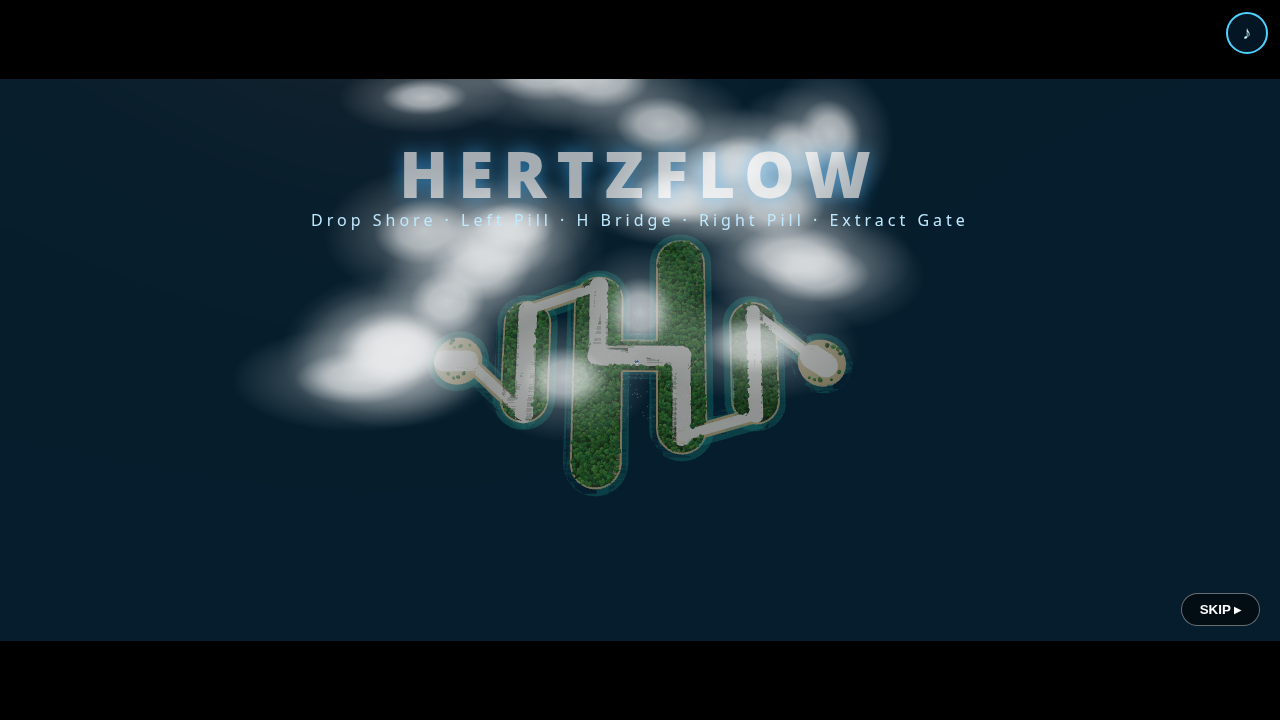
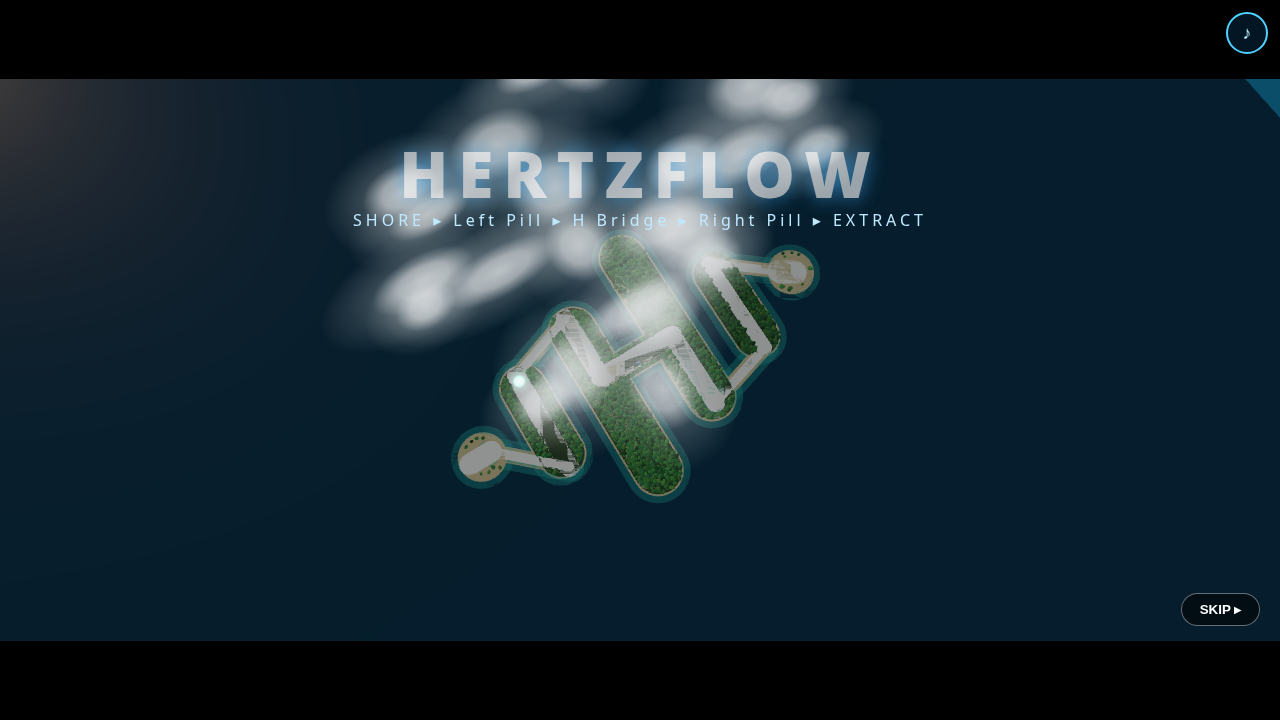
Intro 10s overview timeline (hold/orbit/dive), drifting clouds, breadcrumb; realistic boat + deeper water; Bone King class cards with starter lines

Changed region(s): [[0.1875, 0.0917, 0.75, 0.7028], [0.0, 0.0917, 0.0938, 0.3056], [0.9688, 0.0917, 1.0, 0.1528]]

diff --git a/public/game.js b/public/game.js
@@ -24,7 +24,7 @@ const sky = new THREE.Group(); scene.add(sky);
 { const s = new THREE.Mesh(new THREE.CircleGeometry(40, 32), new THREE.MeshBasicMaterial({ color: 0xffb347, fog: false })); s.position.set(-300, 70, -900); s.lookAt(0, 0, 0); scene.add(s); }
 // ocean
 const oceanG = new THREE.PlaneGeometry(700, 700, 120, 120); oceanG.rotateX(-Math.PI / 2);
-const ocean = new THREE.Mesh(oceanG, new THREE.MeshStandardMaterial({ color: 0x0f8fb8, roughness: .12, metalness: .35, flatShading: true, transparent: true, opacity: .95, emissive: 0x03263a }));
+const ocean = new THREE.Mesh(oceanG, new THREE.MeshStandardMaterial({ color: 0x0a6a80, roughness: .18, metalness: .45, flatShading: true, transparent: true, opacity: .96, emissive: 0x021a26 }));
 ocean.position.y = -0.4; scene.add(ocean);
 const oBase = Float32Array.from(oceanG.attributes.position.array);
 // island (Ember Dot) + background HertzFlow-mark islets
@@ -265,23 +265,24 @@ function setChar(id) { CHID = id; CH = CHARS[id]; for (const c of [...zayn.child
   CD.wave = CH.wave.cd; document.querySelectorAll('.nm').forEach(n => n.textContent = CH.name); }
 // speedboat
 const boat = new THREE.Group();
-{ const plan = new THREE.Shape(); plan.moveTo(-1.8, -4.5); plan.lineTo(1.8, -4.5); plan.lineTo(1.9, 1.5); plan.quadraticCurveTo(1.6, 5, 0, 7.2); plan.quadraticCurveTo(-1.6, 5, -1.9, 1.5); plan.closePath();
+{ const plan = new THREE.Shape(); plan.moveTo(-1.8, -6); plan.lineTo(1.8, -6); plan.lineTo(1.95, 2); plan.quadraticCurveTo(1.6, 7, 0, 9.6); plan.quadraticCurveTo(-1.6, 7, -1.95, 2); plan.closePath();
   const hullG = new THREE.ExtrudeGeometry(plan, { depth: 1.3, bevelEnabled: true, bevelThickness: .35, bevelSize: .3, bevelSegments: 2, curveSegments: 10 }); hullG.rotateX(-Math.PI / 2); hullG.translate(0, -.5, 0);
   const hull = new THREE.Mesh(hullG, M(0xf4f6f8, 0, { roughness: .35, metalness: .2 }));
   const keel = new THREE.Mesh(hullG, M(0x0c1a2a, 0, { roughness: .4 })); keel.scale.set(.96, .45, .97); keel.position.y = -.55;
   const stripe = new THREE.Mesh(hullG, M(SKY, .8)); stripe.scale.set(1.02, .12, 1.01); stripe.position.y = .25;
-  const deck = new THREE.Mesh(new THREE.BoxGeometry(3, .12, 6), M(0x2a2f38, 0, { roughness: .8 })); deck.position.set(0, .86, -1);
-  const glass = new THREE.Mesh(new THREE.BoxGeometry(3.1, 1.1, .12), M(0x9fe8ff, .25, { transparent: true, opacity: .55, metalness: .6, roughness: .05 })); glass.position.set(0, 1.4, 2.2); glass.rotation.x = -.55;
-  const motor = new THREE.Mesh(new THREE.BoxGeometry(.9, 1.6, .9), M(0x14161c, 0, { metalness: .6, roughness: .3 })); motor.position.set(0, .9, -4.9);
-  const cowl = new THREE.Mesh(new THREE.BoxGeometry(.95, .25, .95), M(SKY, 1)); cowl.position.set(0, 1.75, -4.9);
+  const deck = new THREE.Mesh(new THREE.BoxGeometry(3, .12, 8.5), M(0x2a2f38, 0, { roughness: .8 })); deck.position.set(0, .86, -1.5);
+  const glass = new THREE.Mesh(new THREE.BoxGeometry(3.1, 1.1, .12), M(0x9fe8ff, .25, { transparent: true, opacity: .55, metalness: .6, roughness: .05 })); glass.position.set(0, 1.45, 2.6); glass.rotation.x = -1.0; const frame = new THREE.Mesh(new THREE.BoxGeometry(3.2, .1, .1), M(0x14161c, 0)); frame.position.set(0, 1.85, 2.3); boat.add(frame);
+  const motor = new THREE.Mesh(new THREE.BoxGeometry(.35, 1.9, .5), M(0x14161c, 0, { metalness: .6, roughness: .3 })); motor.position.set(0, .2, -6.6);
+  const cowl = new THREE.Mesh(new THREE.CapsuleGeometry(.6, .7, 4, 10), M(0x1a1d24, 0, { metalness: .5, roughness: .25 })); cowl.rotation.x = Math.PI / 2; cowl.scale.set(1, 1, .85); cowl.position.set(0, 1.55, -6.6); const cap = new THREE.Mesh(new THREE.BoxGeometry(1, .08, .9), M(SKY, 1)); cap.position.set(0, 2.05, -6.6); boat.add(cap);
   boat.add(keel, hull, stripe, deck, glass, motor, cowl);
   // wake: two foam ribbons + a center churn (shared additive sprite, no particles flood)
-  const foam = (x, rot) => { const w = sprite(STREAK, 0xcfeff5, 1.3, 30, .35); w.material.blending = THREE.NormalBlending; w.position.set(x, -.3, -19); w.rotation.y = Math.PI + rot; boat.add(w); return w; };
-  boat.userData.wake = [foam(-2.5, -.12), foam(2.5, .12), (() => { const c = sprite(ORB, 0xffffff, 5, 12, .8); c.position.set(0, -.2, -8); boat.add(c); return c; })()];
+  const foam = (x, rot) => { const w = sprite(STREAK, 0xcfeff5, 1.3, 30, .35); w.material.blending = THREE.NormalBlending; w.position.set(x, -.3, -24); w.rotation.y = Math.PI + rot; boat.add(w); return w; };
+  const blob = (x, z, sx, sz) => { const c = sprite(ORB, 0xf2fbff, sx, sz, .8); c.material.blending = THREE.NormalBlending; c.position.set(x, -.2, z); boat.add(c); return c; };
+  boat.userData.wake = [foam(-2.5, -.12), foam(2.5, .12), foam(-1.2, -.05), foam(1.2, .05), blob(0, -10, 5, 12), blob(-2.1, 3, 1.6, 7), blob(2.1, 3, 1.6, 7), blob(0, 9.4, 2.4, 1.6)]; // + hull-side & bow foam
   scene.add(boat); boat.visible = false; }
 // clouds for the overview descent (flat soft sprites, one shared texture)
-const cover = []; const clouds = new THREE.Group(); scene.add(clouds); clouds.visible = false;
-for (let i = 0; i < 26; i++) { const c = sprite(ORB, 0xffffff, 90 + Math.random() * 90, 60 + Math.random() * 60, .8); c.material.blending = THREE.NormalBlending; c.position.set((Math.random() - .5) * 360, 150 + Math.random() * 60, -80 + (Math.random() - .5) * 280); clouds.add(c); }
+const cover = []; const crumb = sprite(ORB, 0x9fffe0, 26, 26, 1); crumb.visible = false; const clouds = new THREE.Group(); scene.add(clouds); clouds.visible = false;
+for (let i = 0; i < 26; i++) { const c = sprite(ORB, 0xffffff, 90 + Math.random() * 90, 60 + Math.random() * 60, .8); c.material.blending = THREE.NormalBlending; c.position.set((Math.random() - .5) * 360, 150 + Math.random() * 60, -80 + (Math.random() - .5) * 280); c.userData.v = 3 + Math.random() * 5; c.userData.s = c.scale.clone(); c.userData.ph = Math.random() * 6; clouds.add(c); }
 for (let i = 0; i < 9; i++) { const c = sprite(ORB, 0xf4f8ff, 260, 200, .95); c.material.blending = THREE.NormalBlending; c.position.set((i % 3 - 1) * 110, 172 + i * 4, 60 + ((i / 3) | 0) * 60 - 60); clouds.add(c); cover.push(c); } // cover layer the camera dives into
 const deepSea = new THREE.Mesh(new THREE.PlaneGeometry(6000, 6000).rotateX(-Math.PI / 2), new THREE.MeshBasicMaterial({ color: 0x0b5f80 })); deepSea.position.y = -1.2; clouds.add(deepSea);
 
@@ -513,13 +514,13 @@ function setArena(on) { const zc = MODELS.zayn && MODELS.zayn.userData.combat; i
 function clearField() { enemies.forEach(e => e.mesh && scene.remove(e.mesh)); enemies.length = 0; gems.length = 0; nums.length = 0; decals.forEach(d => scene.remove(d.m)); decals.length = 0; }
 function startCine() {
   $('#title').classList.remove('on'); show('#title', false); show('#cine', true); show('#hud', false); show('#end', false);
-  S.mode = 'over'; S.t = 0; boat.visible = false; setArena(false); clearField(); shield.visible = false; clouds.visible = true; scene.fog.far = 2000;
+  S.mode = 'over'; S.t = 0; boat.visible = false; setArena(false); clearField(); shield.visible = false; clouds.visible = true; scene.fog.far = 2000; cover.forEach(c => c.material.opacity = 0); scene.add(crumb);
   // overview flies the selected map's logo silhouette (green canopy), not the old archipelago
   buildMap(MAPID); arena.visible = true; decor.forEach(o => o.visible = false); ocean.visible = false; scene.background = new THREE.Color(MAP.fog);
   { const bb = new THREE.Box3(); mapG.children.forEach(c => { if (c.geometry && c.geometry.type !== 'PlaneGeometry') bb.expandByObject(c); }); const c = bb.getCenter(new THREE.Vector3()), sz = bb.getSize(new THREE.Vector3()); S.ovC = [c.x, c.z]; S.ovR = Math.max(sz.x, sz.z); }
-  $('#cineText').textContent = MAPID === 'binance' ? 'BINANCE SIEGE' : 'HERTZFLOW'; $('#cineSub').textContent = MAPID === 'binance' ? 'Storm over the diamond · land at A, break the core' : 'Drop Shore · Left Pill · H Bridge · Right Pill · Extract Gate';
+  $('#cineText').textContent = MAPID === 'binance' ? 'BINANCE SIEGE' : 'HERTZFLOW'; $('#cineSub').textContent = MAPID === 'binance' ? 'SHORE ▸ West Channel ▸ East Fort ▸ Outer L ▸ CORE' : 'SHORE ▸ Left Pill ▸ H Bridge ▸ Right Pill ▸ EXTRACT';
 }
-function startBoat() { S.mode = 'cine'; S.t = 0; clouds.visible = false; setArena(false); scene.fog.far = 320; $('#cineText').textContent = 'ALMOST THERE';
+function startBoat() { crumb.visible = false; S.mode = 'cine'; S.t = 0; clouds.visible = false; setArena(false); scene.fog.far = 320; $('#cineText').textContent = 'ALMOST THERE';
   boat.visible = true; boat.position.set(0, 0, 230); boat.rotation.y = Math.PI; boat.add(zayn); zayn.position.set(0, .9, -1); zayn.rotation.set(0, 0, 0); zayn.scale.set(1, 1, 1); }
 function landOnBeach() {
   if (S.mode !== 'cine') return; S.mode = 'fading'; fade(1);
@@ -645,8 +646,14 @@ const ALL = new URLSearchParams(location.search).has('all');
 const merits = () => +localStorage.getItem('sw_merits') || 0, owned = () => new Set([...STARTERS, ...JSON.parse(localStorage.getItem('sw_owned') || '[]')]);
 const isOwned = id => ALL || owned().has(id);
 function addMerits(n) { localStorage.setItem('sw_merits', merits() + n); }
+const CLASS = { lyra: ['Scout', 'FAST FEET, GREEN BOLTS, ONE MOON RAIN.'], hertzling: ['Spirit', 'PULLS THE PACK, THEN BREAKS THE ECHO.'], chado: ['Blade', 'TWO BLADES, ONE DASH — THEY NEVER SEE IT.'],
+  kael: ['Guard', 'Line placeholder.'], warden: ['Warden', 'Line placeholder.'], bankyo: ['Vault', 'Line placeholder.'], zayn: ['Sniper', 'Line placeholder.'], hero: ['Founder', 'Line placeholder.'] };
+const SIL = col => `<svg viewBox="0 0 40 48" class="sil"><circle cx="20" cy="11" r="7" fill="${col}"/><path d="M8 46 L11 24 Q20 17 29 24 L32 46 Z" fill="${col}"/><path d="M29 26 L38 18" stroke="${col}" stroke-width="3"/></svg>`;
+const KIT = c => `<div class="kicons">${[['◆', c.wave.col, 'Wave'], ['◎', c.chain.col, c.chain.name], ['✦', c.roar.col, c.roar.name]].map(([g, col, t]) => `<span title="${t}" style="--k:#${new THREE.Color(col).getHexString()}">${g}</span>`).join('')}</div>`;
+function boneCard(id, c, own) { const [role, line] = CLASS[id] || ['Hero', 'Line placeholder.'];
+  return `<div class="card bk ${own ? 'pick' : 'locked'}" data-c="${id}" style="--cc:${c.col}"><div class="plate"><div class="port">${SIL(own ? c.col : '#3a3a40')}${own ? '' : '<em>🔒</em>'}</div><span class="role">${role}</span></div><h3>${c.name}</h3><p class="line">${own ? line : '—'}</p>${KIT(c)}${own ? '<b>SELECT</b>' : `<button class="unlock" data-c="${id}" ${merits() < UNLOCK_COST[id] ? 'disabled' : ''}>UNLOCK · ${UNLOCK_COST[id]} ◆</button>`}</div>`; }
 function renderCards() {
-$('.cards').innerHTML = Object.entries(CHARS).sort(([a], [b]) => isOwned(b) - isOwned(a)).map(([id, c]) => isOwned(id) ? `<div class="card pick" data-c="${id}" style="--cc:${c.col}"><div class="port" style="background:radial-gradient(circle at 35% 30%,${c.col},#0a1220 75%)">${c.name[0]}</div><h3>${c.name}</h3><small>${c.title}</small><p>${c.blurb}</p><div class="kit"><span>${c.chain.name}</span><span>${c.roar.name}</span></div><b>PLAY</b></div>` : `<div class="card locked" data-c="${id}" style="--cc:${c.col}"><div class="port">🔒</div><h3>${c.name}</h3><small>${c.title}</small><p>${c.blurb}</p><button class="unlock" data-c="${id}" ${merits() < UNLOCK_COST[id] ? 'disabled' : ''}>UNLOCK · ${UNLOCK_COST[id]} ◆</button></div>`).join('');
+$('.cards').innerHTML = Object.entries(CHARS).sort(([a], [b]) => isOwned(b) - isOwned(a)).map(([id, c]) => boneCard(id, c, isOwned(id))).join('');
 $('#merits') && ($('#merits').textContent = `◆ ${merits()} Merits`);
 document.querySelectorAll('.card.pick').forEach(el => el.onclick = () => { setChar(el.dataset.c); fade(1); setTimeout(() => { startCine(); fade(0); }, 600); });
 document.querySelectorAll('.unlock').forEach(el => el.onclick = e => { e.stopPropagation(); const id = el.dataset.c, cost = UNLOCK_COST[id]; if (merits() < cost) return;
@@ -669,18 +676,20 @@ function nearest(maxD) { let b = null, bd = maxD; for (const e of enemies) { con
 function tick(now) {
   const dt = Math.min(.05, (now - last) / 1000); last = now; S.t += dt; U.uTime.value = S.t;
   if (!arena.visible) { const a = oceanG.attributes.position.array;
-    for (let i = 0; i < a.length; i += 3) a[i + 1] = Math.sin(oBase[i] * .08 + S.t * 1.4) * .35 + Math.cos(oBase[i + 2] * .07 + S.t) * .35;
+    for (let i = 0; i < a.length; i += 3) a[i + 1] = Math.sin(oBase[i] * .05 + S.t * .7) * .45 + Math.cos(oBase[i + 2] * .045 + S.t * .55) * .4 + Math.sin((oBase[i] + oBase[i + 2]) * .2 + S.t * 1.6) * .06;
     oceanG.attributes.position.needsUpdate = true; }
   pylons.forEach((p, i) => { p.rotation.y += dt * 2; p.position.y = 8.5 + Math.sin(S.t * 2 + i) * .4; });
 
   if (S.mode === 'title') { const r = 70; cam.fov = 60; cam.updateProjectionMatrix(); cam.position.set(Math.cos(S.t * .1) * r, 22, Math.sin(S.t * .1) * r); cam.lookAt(0, 3, 0); }
   else if (S.mode === 'over' || S.mode === 'overfade') { // aerial overview: archipelago reads as the HertzFlow mark, camera dives through clouds
-    const k = Math.min(1, S.t / 5), e = k * k * (3 - 2 * k); cam.fov = 55; cam.updateProjectionMatrix();
-    { const [ox, oz] = S.ovC || [0, 0], R = Math.max(120, S.ovR || 200); cam.position.set(ox + Math.sin(S.t * .15) * 15, R * 1.6 - e * R * .7, oz + R * .35 - e * R * .1); cam.lookAt(ox, 0, oz + e * 10); } const cv = Math.max(0, (k - .6) / .4); cover.forEach(c => c.material.opacity = cv * .95);
-    if (S.t > 4.4 && S.mode === 'over') { S.mode = 'overfade'; fade(1); setTimeout(() => { if (S.mode === 'overfade') { startBoat(); fade(0); } }, 700); }
+    const T = S.t, dk = Math.min(1, Math.max(0, (T - 7.5) / 2.5)), e = dk * dk * (3 - 2 * dk), orb = Math.min(1, Math.max(0, (T - 3) / 4.5)); cam.fov = 55; cam.updateProjectionMatrix();
+    clouds.children.forEach(c => { const u = c.userData; if (!u.v) return; c.position.x += u.v * dt; if (c.position.x > 220) c.position.x = -220; const b = 1 + Math.sin(T * .6 + u.ph) * .06; c.scale.set(u.s.x * b, 1, u.s.z * b); });
+    if (crumb.visible = T < 7.5) { const segs = MAP.path, L = segs.length, f = Math.min(.999, T / 6) * L, sg = segs[f | 0], q = f % 1; crumb.position.set(sg[0] + (sg[2] - sg[0]) * q, 3, sg[1] + (sg[3] - sg[1]) * q); crumb.material.opacity = .9; }
+    { const [ox, oz] = S.ovC || [0, 0], R = Math.max(120, S.ovR || 200); const ang = (orb - .5) * 1.1; cam.position.set(ox + Math.sin(ang) * R * .35, R * 1.6 - orb * R * .15 - e * R * .75, oz + R * .35 * Math.cos(ang) - e * R * .15); cam.lookAt(ox, 0, oz + e * 10); } const cv = Math.max(0, (dk - .3) / .7); cover.forEach(c => c.material.opacity = cv * .95);
+    if (S.t > 10 && S.mode === 'over') { S.mode = 'overfade'; fade(1); setTimeout(() => { if (S.mode === 'overfade') { startBoat(); fade(0); } }, 700); }
   }
-  else if (S.mode === 'cine' || S.mode === 'fading') { boat.userData.wake.forEach((w, i) => { w.material.opacity = (i < 2 ? .3 : .45) + Math.sin(S.t * 9 + i) * .08; });
-    const k = Math.min(1, S.t / 13); boat.position.z = 230 - k * 190; boat.position.y = Math.sin(S.t * 6) * .25; boat.rotation.z = Math.sin(S.t * 2) * .06; boat.rotation.x = -.06;
+  else if (S.mode === 'cine' || S.mode === 'fading') { boat.userData.wake.forEach((w, i) => { w.material.opacity = (i < 4 ? .32 : .5) + Math.sin(S.t * 9 + i) * .1; });
+    const k = Math.min(1, S.t / 13); boat.position.z = 230 - k * 190; boat.position.y = Math.sin(S.t * 2.2) * .18 + Math.sin(S.t * 5.3) * .05; boat.rotation.z = Math.sin(S.t * 1.1) * .04; boat.rotation.x = -.07 + Math.sin(S.t * 1.7) * .02;
     burst(new THREE.Vector3(boat.position.x + (Math.random() - .5) * 3, .2, boat.position.z + 5), [0xffffff, 0xbff6ff], 2, 3, 2, 8);
     $('#cineSub').textContent = `Ember Dot · ${Math.max(0, (boat.position.z - 34) / 500).toFixed(2)} km`;
     const sw = Math.sin(S.t * .35) * 6;

diff --git a/public/style.css b/public/style.css
@@ -87,3 +87,16 @@ body:not(.touch) #stick{display:none}
 #modes{display:flex;gap:8px;margin:2px 0 8px;flex-wrap:wrap;justify-content:center}
 #modes button{pointer-events:auto;cursor:pointer;background:#0a1220cc;color:#cfe;border:1px solid #4DB8FF66;border-radius:6px;padding:7px 14px;font-weight:800;letter-spacing:2px;font-size:12px}
 #modes button.on{background:#4DB8FF;color:#021;border-color:#4DB8FF}#modes button:disabled{opacity:.4;cursor:default}
+/* Bone King class cards: gold/charcoal plates, mini silhouette, role chip, 1-liner, 3 kit icons, hard select border */
+.card.bk{background:linear-gradient(180deg,#1b1a1d,#0f0f12);border:2px solid #6b5a2e;border-radius:6px;box-shadow:inset 0 0 0 1px #000,0 6px 18px #0008;padding:12px 12px 14px;gap:6px}
+.card.bk .plate{width:100%;display:flex;flex-direction:column;align-items:center;gap:6px;padding:10px 0 8px;background:linear-gradient(180deg,#2a2620,#151417);border:1px solid #c9a24a55;border-radius:3px;position:relative}
+.card.bk .port{width:64px;height:64px;border-radius:4px;border:2px solid #c9a24a;background:#0b0b0d;position:relative}
+.card.bk .sil{width:40px;height:48px}.card.bk .port em{position:absolute;right:-8px;bottom:-8px;font-style:normal;font-size:16px}
+.card.bk .role{font-size:10px;letter-spacing:2px;text-transform:uppercase;padding:2px 10px;border-radius:2px;background:#c9a24a;color:#141210;font-weight:800}
+.card.bk h3{color:#f0d68a;letter-spacing:2px;margin:2px 0 0}
+.card.bk .line{font-size:11px;letter-spacing:.5px;color:#d9d3c4;min-height:30px;text-align:center;margin:0}
+.card.bk .kicons{display:flex;gap:8px}.card.bk .kicons span{width:28px;height:28px;display:grid;place-items:center;background:#0b0b0d;border:1px solid var(--k);color:var(--k);border-radius:3px;font-size:14px}
+.card.bk.pick{cursor:pointer;box-shadow:inset 0 0 0 1px #000,0 6px 18px #0008}.card.bk.pick:hover{border-color:#f0d68a;transform:none}
+.card.bk.pick:hover,.card.bk.sel{outline:3px solid #f0d68a;outline-offset:2px}
+.card.bk.pick b{background:#c9a24a;color:#141210;border-radius:2px;padding:5px 22px;letter-spacing:2px}
+.card.bk.locked{filter:none;opacity:.8}.card.bk.locked h3{color:#8a826e}

diff --git a/docs/DESIGN.md b/docs/DESIGN.md
@@ -90,3 +90,10 @@ Charcoal shell; magenta only as a thin fresnel rim + glitch fringe. Big cyan-whi
 - Binance: same green islands, storm grade (dark teal water, lightning, fires); diamond channels A→B, outer L's → DIAMOND CORE finale (hold 12s).
 - Spawns come out of the canopy edge (sides/front/behind), never from open ocean. Enemies clamped to land; stuck ones re-emerge.
 - Ground/path kept muted; arena lighting dimmed (storm darker).
+
+## Intro timing (locked)
+Overview+clouds = 10.0s: 0–3s high hold on the selected logo map + Shore→Extract breadcrumb; 3–7.5s slow orbit with drifting/breathing clouds; 7.5–10s dive, cover thickens → fade → boat. Skip anytime; timeline runs on clamped frame time, so slow loads hold rather than cut.
+Boat: longer hull, raked windshield, outboard cowling, soft bob/roll, denser wake + hull/bow foam. Water: deeper teal, slower swell, subtle speculars.
+
+## Class cards (Bone King layout)
+Gold/charcoal plate, mini silhouette, role chip, 1-liner, 3 kit icons (wave/chain/roar), hard gold select border. Starters: Lyra · Scout, Hertzling · Spirit, Chado · Blade. Locked cards show "—" until tease lines land.
